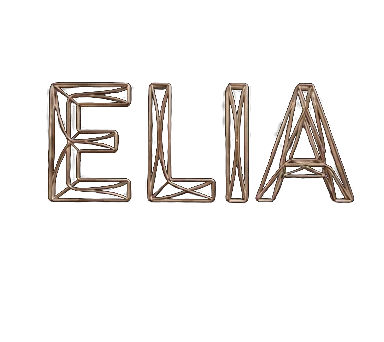
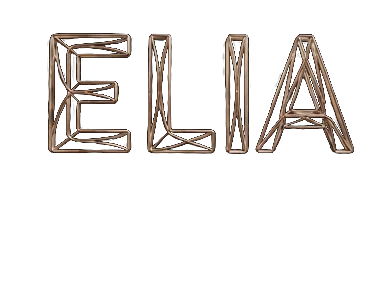
feat: give the Elia preloader a quieter luxury finish
The drawing still builds frame by frame, now with a soft gold glow, a slow ease into the final mark, and a darker vignette.

Changed region(s): [[0.375, 0.0922, 0.9375, 0.6143], [0.125, 0.0922, 0.3438, 0.6143]]

diff --git a/src/components/Preloader.jsx b/src/components/Preloader.jsx
@@ -4,10 +4,13 @@ const FRAME_COUNT = 12;
 const FRAMES = Array.from({ length: FRAME_COUNT }, (_, index) => (
   `/preloader/frame-${String(index + 1).padStart(2, '0')}.webp`
 ));
-const SEGMENT_MS = 170;
-const DRAW_MS = (FRAME_COUNT - 1) * SEGMENT_MS;
-const HOLD_MS = 480;
-const FADE_MS = 400;
+const DRAW_MS = 2400;
+const HOLD_MS = 560;
+const FADE_MS = 480;
+
+function easeOutCubic(amount) {
+  return 1 - (1 - amount) ** 3;
+}
 
 function shouldPlayPreloader() {
   if (typeof window === 'undefined') return false;
@@ -81,8 +84,8 @@ export default function Preloader() {
         const tick = (now) => {
           if (cancelled) return;
           const elapsed = now - playFrom;
-          const next = Math.min(FRAME_COUNT - 1, elapsed / SEGMENT_MS);
-          setProgress(next);
+          const eased = easeOutCubic(Math.min(1, elapsed / DRAW_MS));
+          setProgress(eased * (FRAME_COUNT - 1));
           if (elapsed < DRAW_MS) rafId = window.requestAnimationFrame(tick);
         };
         rafId = window.requestAnimationFrame(tick);
@@ -109,24 +112,34 @@ export default function Preloader() {
 
   return (
     <div
-      className={`elia-preloader fixed inset-0 z-[80] flex items-center justify-center bg-[#141312] ${
+      className={`elia-preloader fixed inset-0 z-[80] flex items-center justify-center ${
         closing ? 'elia-preloader-leave pointer-events-none' : ''
       }`}
       role="status"
       aria-live="polite"
       aria-label="Loading Elia Boutique Hotel"
     >
-      <div className="relative aspect-[384/341] w-[min(86vw,440px)]">
-        {FRAMES.map((src, index) => (
-          <img
-            key={src}
-            src={src}
-            alt=""
-            draggable="false"
-            className="absolute inset-0 h-full w-full object-contain select-none"
-            style={{ opacity: frameOpacity(index, progress) }}
-          />
-        ))}
+      <div
+        className="relative flex items-center justify-center"
+        style={{ transform: `scale(${0.94 + (progress / (FRAME_COUNT - 1)) * 0.06})` }}
+      >
+        <div
+          className="elia-preloader-glow pointer-events-none absolute"
+          style={{ opacity: 0.35 + (progress / (FRAME_COUNT - 1)) * 0.65 }}
+          aria-hidden="true"
+        />
+        <div className="relative aspect-[384/293] w-[min(88vw,520px)]">
+          {FRAMES.map((src, index) => (
+            <img
+              key={src}
+              src={src}
+              alt=""
+              draggable="false"
+              className="absolute inset-0 h-full w-full object-contain select-none"
+              style={{ opacity: frameOpacity(index, progress) }}
+            />
+          ))}
+        </div>
       </div>
     </div>
   );

diff --git a/src/index.css b/src/index.css
@@ -651,11 +651,20 @@ body:not(:has(.cb-immersive-experience-popup-content)) .cb-portal [data-elia-pin
 }
 
 .elia-preloader {
-  transition: opacity 400ms cubic-bezier(0.22, 1, 0.36, 1);
+  background:
+    radial-gradient(ellipse at center, #24211d 0%, #100f0e 62%, #070706 100%);
+  transition: opacity 480ms cubic-bezier(0.22, 1, 0.36, 1);
 }
 
 .elia-preloader-leave {
   opacity: 0;
+}
+
+.elia-preloader-glow {
+  width: min(92vw, 560px);
+  height: min(46vw, 240px);
+  background: radial-gradient(ellipse at center, rgba(197, 168, 128, 0.28) 0%, rgba(197, 168, 128, 0.08) 42%, transparent 72%);
+  filter: blur(6px);
 }
 
 @media (prefers-reduced-motion: reduce) {
